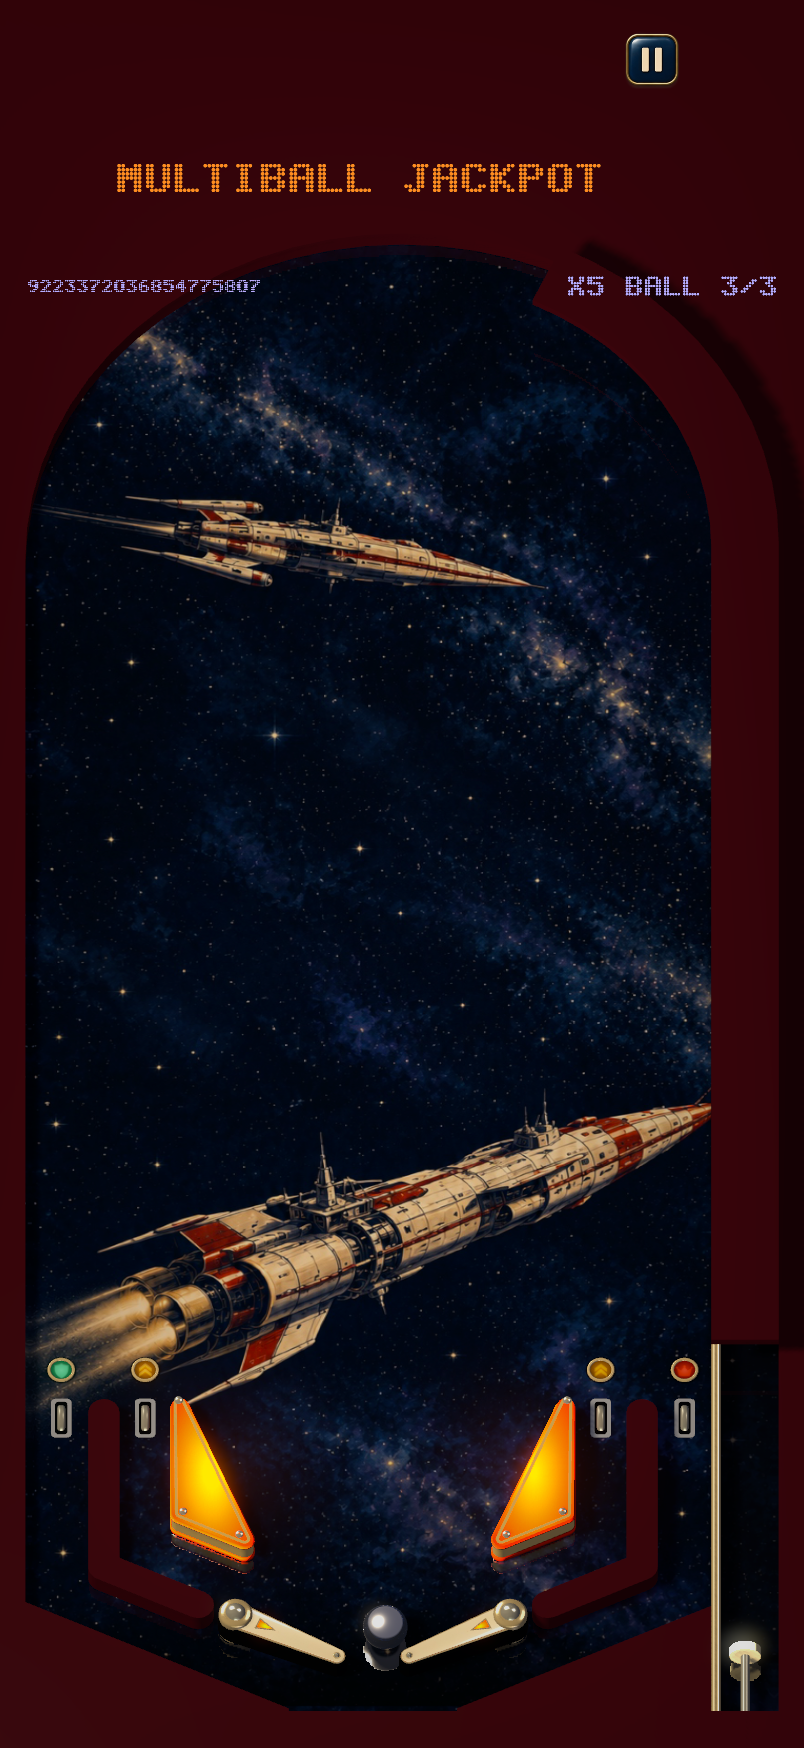
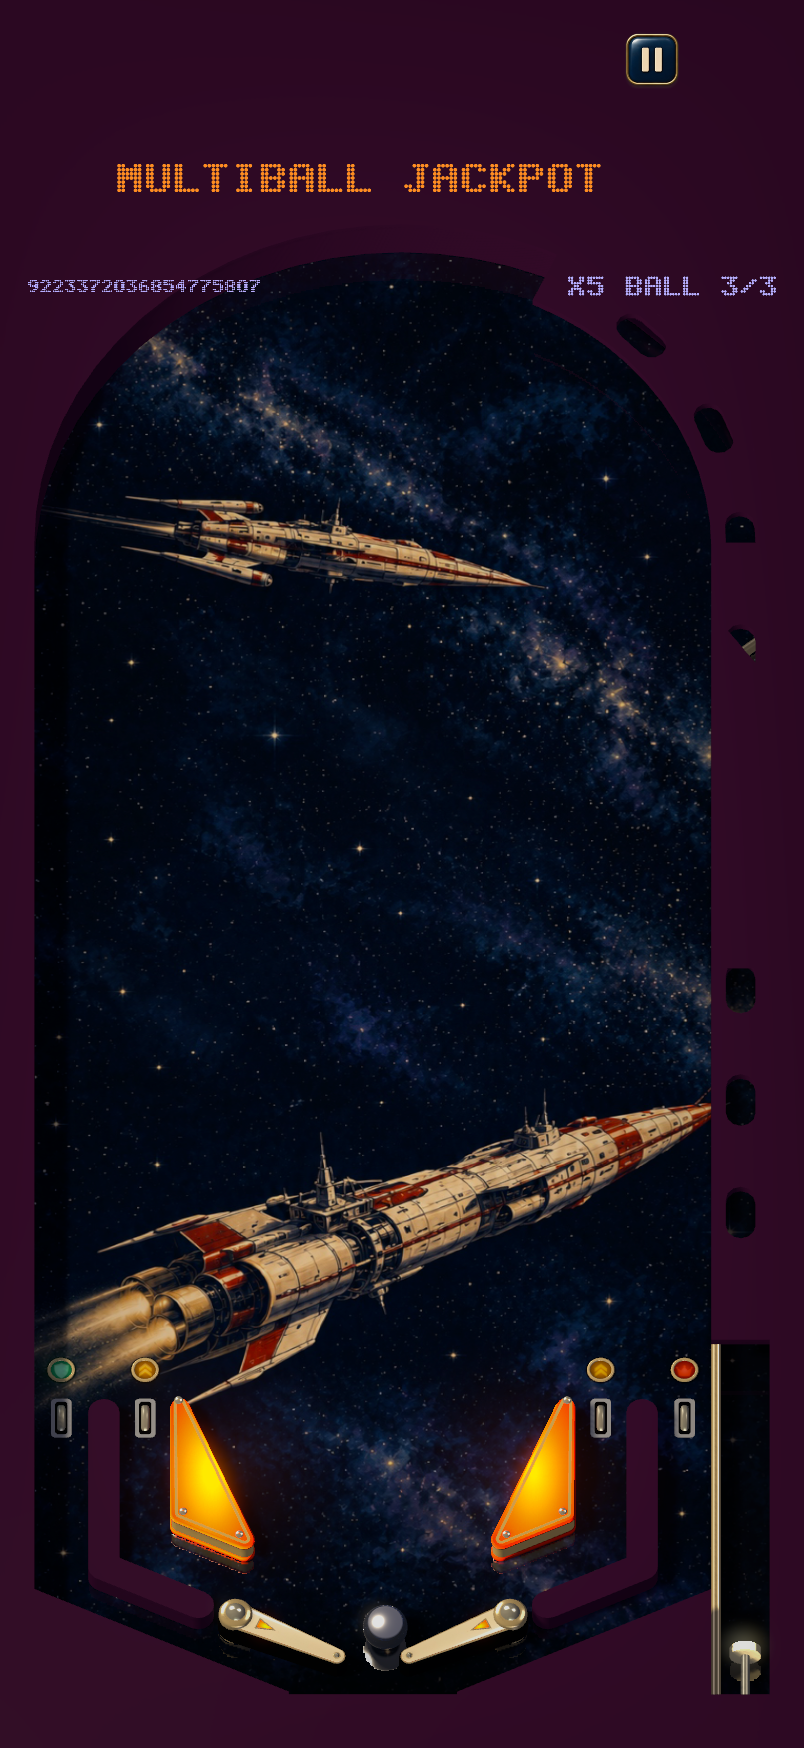
Covers on one level, windows along the tunnel, and a plum cover
The cabinet cover stands at ball height, solid to the floor, and the tunnel
roof is a thin cover flush with it, so the ball rolls on the floor beneath
one level of board with no step and no shadow between rim and roof. The
rails stay low so they sit level with the slingshots on screen.

A stencil can carry an <array path count/>: one hole repeated along a path,
evenly by length and turned to follow it. The tunnel's windows are one slot
and an array along the ball's path up the lane and round the arch. The
compiler refuses holes that overlap.

Orbital's cover is plum, picked from a rendered contact sheet. The preview
tool no longer needs bumpers to finish.

diff --git a/tools/scene/compile_scenes.py b/tools/scene/compile_scenes.py
@@ -176,6 +176,50 @@ def closed_outline(points):
     return out
 
 
+def arrayed(shape, array):
+    """A stencil's `array`: the shape repeated `count` times along `path`, evenly by length, each
+    turned to follow the path, with the shape's y axis along it."""
+    path = closed_outline(expand_points(array['path']))
+    if len(path) < 2:
+        raise ValueError('an array needs a path of at least two points')
+    lengths = [0.0]
+    for a, b in zip(path, path[1:]):
+        lengths.append(lengths[-1] + math.dist(a, b))
+    count = int(array['count'])
+    out = []
+    for i in range(count):
+        s = lengths[-1] * (i + .5) / count
+        k = max(1, next((k for k in range(1, len(lengths)) if lengths[k] >= s), len(lengths) - 1))
+        a, b = path[k - 1], path[k]
+        t = (s - lengths[k - 1]) / max(lengths[k] - lengths[k - 1], 1e-9)
+        at = (a[0] + (b[0] - a[0]) * t, a[1] + (b[1] - a[1]) * t)
+        turn = math.atan2(b[1] - a[1], b[0] - a[0]) - math.pi / 2
+        out.append([(at[0] + p[0] * math.cos(turn) - p[1] * math.sin(turn), at[1] + p[0] * math.sin(turn) + p[1] * math.cos(turn)) for p in shape])
+    return out
+
+
+def inside(point, polygon):
+    x, y = point
+    hit = False
+    for (x0, y0), (x1, y1) in zip(polygon, polygon[1:] + polygon[:1]):
+        if (y0 > y) != (y1 > y) and x < x0 + (y - y0) * (x1 - x0) / (y1 - y0):
+            hit = not hit
+    return hit
+
+
+def stencil_holes(cover):
+    """Every hole a cover's stencils cut, arrays spread out, checked against one another."""
+    holes = []
+    for stencil in cover.get('stencils', []):
+        shape = closed_outline(expand_points(stencil['points']))
+        holes += [(stencil['id'], h) for h in (arrayed(shape, stencil['array']) if 'array' in stencil else [shape])]
+    for i, (name, hole) in enumerate(holes):
+        for other, their in holes[i + 1:]:
+            if any(inside(p, their) for p in hole) or any(inside(p, hole) for p in their):
+                raise ValueError(f"{cover['id']}: stencils {name} and {other} overlap; merge them into one outline")
+    return [h for _, h in holes]
+
+
 def cover_part(table, centred, skip=()):
     """Each laser-cut cover: a plate over its outline with its stencils cut out, at its height."""
     data = mesher.MeshData()
@@ -189,7 +233,7 @@ def cover_part(table, centred, skip=()):
             outline = mesher.outline_along([centred(*p) for p in expand_points(wall['points'])], wall['radius'])
         else:
             outline = closed_outline([centred(*p) for p in expand_points(cover['points'])])
-        holes = [closed_outline([centred(*p) for p in expand_points(s['points'])]) for s in cover.get('stencils', [])]
+        holes = [[centred(*p) for p in hole] for hole in stencil_holes(cover)]
         thickness = cover.get('thickness', cover['height'])
         mesher.slab(data, outline, holes, cover['height'] - thickness, thickness, 'cover')
     return data

diff --git a/tools/render_preview.m b/tools/render_preview.m
@@ -227,6 +227,14 @@ int main(int argc, const char *argv[]) {
                 PBExport(renderer, 2.016, path);
                 if (premium) {
                     PBExportChannelWalls(scene, renderer, table, [output stringByAppendingPathComponent:[name stringByAppendingString:@"-channels.png"]]);
+                    PBCheckTiltLighting(scene, renderer, output, name);
+                    if (argc > 4 && strcmp(argv[4], "--tilt-animation") == 0) {
+                        PBExportTiltAnimation(scene, renderer, table,
+                            [output stringByAppendingPathComponent:[name stringByAppendingString:@"-tilt.gif"]]);
+                    }
+                }
+                // The hit, idle and chase checks need two bumpers to compare; a bare board has none.
+                if (premium && table.bumpers.count >= 2) {
                     SCNNode *cap = [scene.scene.rootNode childNodeWithName:[@"bumper." stringByAppendingString:table.bumpers[0].identifier] recursively:YES];
                     __block SCNGeometry *painted = cap.geometry;
                     [cap enumerateChildNodesUsingBlock:^(SCNNode *node, BOOL *stop) {
@@ -266,13 +274,8 @@ int main(int argc, const char *argv[]) {
                         [scene syncWithGame:game elapsed:1.0 / 60.0];
                     }
                     PBRequire(painted.firstMaterial == idle, @"bumper failed to return to idle artwork");
-                    PBCheckTiltLighting(scene, renderer, output, name);
                     PBCheckLocalLighting(scene, renderer, output, name);
                     PBExportRampChase(scene, renderer, game, [output stringByAppendingPathComponent:[name stringByAppendingString:@"-chase.gif"]]);
-                    if (argc > 4 && strcmp(argv[4], "--tilt-animation") == 0) {
-                        PBExportTiltAnimation(scene, renderer, table,
-                            [output stringByAppendingPathComponent:[name stringByAppendingString:@"-tilt.gif"]]);
-                    }
                 }
             }
         }

diff --git a/tools/scene/test_scenes.py b/tools/scene/test_scenes.py
@@ -82,6 +82,15 @@ plate = mesher.MeshData()
 mesher.slab(plate, [(0, 0), (4, 0), (4, 4), (0, 4)], [[(1, 1), (2, 1), (2, 2), (1, 2)], [(3, 3), (3.5, 3), (3.5, 3.5), (3, 3.5)]], 0, .1, 'cover')
 top = sum(abs(mesher.signed_area([plate.vertices[i][:2] for i in t])) for face in plate.faces if all(abs(plate.vertices[i][2] - .1) < 1e-9 for i in face) for t in mesher.triangulate(plate.vertices, face))
 assert abs(top - (16 - 1 - .25)) < 1e-9, 'stencils cut holes in the cover'
+# An array repeats one hole along a path, turned to follow it; holes that overlap are refused.
+slots = compile_scenes.arrayed([(-1, -.5), (1, -.5), (1, .5), (-1, .5)], {'path': [[0, 0], [0, 10], [10, 10]], 'count': 4})
+assert len(slots) == 4 and abs(slots[0][0][0] - -1) < 1e-9 and abs(slots[0][0][1] - 2) < 1e-9, 'the first copy sits 2.5 up the path, unturned'
+assert abs(slots[3][0][0] - 7) < 1e-9 and abs(slots[3][0][1] - 11) < 1e-9, 'a copy on the second leg is turned a quarter turn, its y axis along the path'
+try:
+    compile_scenes.stencil_holes({'id': 'c', 'stencils': [{'id': 'a', 'points': [[0, 0], [2, 0], [2, 2], [0, 2]]}, {'id': 'b', 'points': [[1, 1], [3, 1], [3, 3], [1, 3]]}]})
+    raise AssertionError('overlapping stencils must fail')
+except ValueError:
+    pass
 # A cover along a wall is that wall's shape: a straight bar's outline is a stadium.
 bar = mesher.outline_along([(0, 0), (2, 0)], .5, 16)
 assert abs(abs(mesher.signed_area(bar)) - (2 + math.pi * .25)) < .01 and mesher.signed_area(bar) > 0, 'outline_along is a round-ended, counter-clockwise bar'

diff --git a/tools/scene/table_xml.py b/tools/scene/table_xml.py
@@ -22,7 +22,7 @@ SCENES = Path(__file__).resolve().parents[2] / 'Scenes'
 
 WORDS = {'layers', 'members', 'lamps', 'actions'}             # Lists of names.
 NUMBERS = {'a', 'b', 'pivot', 'passDirection', 'ejectDirection', 'comesUpAt'}  # Lists of numbers.
-POINTS = {'points', 'mouth', 'columns'}                        # Lists of points.
+POINTS = {'points', 'mouth', 'columns', 'path'}                # Lists of points.
 ROTATIONS = {'restAngle', 'activeAngle', 'rotation'}           # Degrees, which may use named angles.
 CONTAINERS = {'walls': 'wall', 'flippers': 'flipper', 'bumpers': 'bumper', 'slingshots': 'slingshot',
               'dropTargets': 'dropTarget', 'standups': 'standup', 'rollovers': 'rollover', 'spinners': 'spinner',

diff --git a/Art/SCENES.md b/Art/SCENES.md
@@ -54,7 +54,7 @@ Also `<use prefab="…" at="x,y" name="value"…>` places a prefab with its vari
 
 ## Covers
 
-A cover is a laser-cut board: `<cover id height thickness points>` is a flat plate over its outline, at `height`, and each `<stencil points>` inside it is a hole cut through it (the stencil-for-boolean approach: draw the shape you want gone, and the compiler subtracts it). Outlines and stencils are point lists, so `arc(cx,cy,r,from,to,steps)` draws a curve and `arc(cx,cy,r,0,360,24)` a whole circle; the compiler drops the corners arcs repeat. Stencils must not overlap one another; merge overlapping shapes into one outline. A cover without `thickness` stands on the floor. `along="<wall id>"` gives a cover the shape of that wall, its radius thick with round ends, for a guide that is board rather than hardware; give the wall `style="none"` so it stops the ball without being drawn. A plastic wall with `drawn="false"` is the same idea for a floor: the base's aprons stop the ball under the flippers, and the cabinet cover's cutout follows their slopes. The base's `cabinet` cover is the board's rim and everything past it, with the whole play area and the arch cut out; its `tunnel` roofs the shooter lane at ball height, so the ball disappears under it and comes out at the top; `railL` and `railR` are the inlane guides. Covers are drawn, not felt: the walls under them do the stopping. Their colour is the skin's `cover`.
+A cover is a laser-cut board: `<cover id height thickness points>` is a flat plate over its outline, at `height`, and each `<stencil points>` inside it is a hole cut through it (the stencil-for-boolean approach: draw the shape you want gone, and the compiler subtracts it). Outlines and stencils are point lists, so `arc(cx,cy,r,from,to,steps)` draws a curve and `arc(cx,cy,r,0,360,24)` a whole circle; the compiler drops the corners arcs repeat. A stencil with an `<array path count/>` inside it is one hole repeated `count` times along `path`, evenly by length, each turned to follow the path (the hole's y axis runs along it): the tunnel's windows are one slot and an array. Stencils must not overlap one another, and the compiler refuses a cover whose holes do; merge overlapping shapes into one outline. A cover without `thickness` stands on the floor. Keep every cover at one height, the base's 0.075: the covers are one level, and the ball rolls on the floor beneath them, so a roof is a thin cover flush with the rim, not a plate above it. `along="<wall id>"` gives a cover the shape of that wall, its radius thick with round ends, for a guide that is board rather than hardware; give the wall `style="none"` so it stops the ball without being drawn. A plastic wall with `drawn="false"` is the same idea for a floor: the base's aprons stop the ball under the flippers, and the cabinet cover's cutout follows their slopes. The base's `cabinet` cover is the board's rim and everything past it, with the whole play area and the arch cut out; its `tunnel` roofs the shooter lane at ball height, so the ball disappears under it and comes out at the top; `railL` and `railR` are the inlane guides. Covers are drawn, not felt: the walls under them do the stopping. Their colour is the skin's `cover`.
 
 ## Scripts
 
